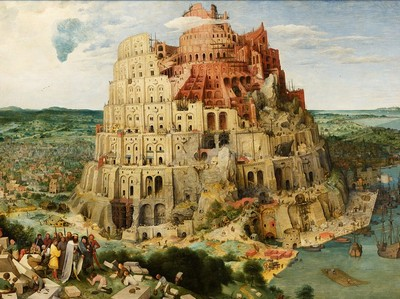
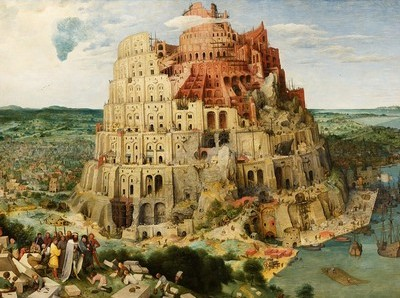
update Daniel 2 and Daniel 7 details

diff --git a/python/6000.py b/python/6000.py
@@ -11,6 +11,7 @@ from reportlab.graphics.shapes import *
 from reportlab.pdfbase import pdfmetrics
 from reportlab.pdfbase.ttfonts import TTFont
 from reportlab.pdfbase.pdfmetrics import stringWidth
+from svglib.svglib import svg2rlg
 import pandas as pd
 import datetime
 import os
@@ -547,9 +548,16 @@ def create_periods():
         counter_periods += 1
 
 def include_pictures():
-    c.drawImage("../images/daniel2.jpg", x_position(-4000), y_position(44), width=61*mm, height=96*mm)
+    c.drawImage("../images/daniel2.jpg", x_position(-4100), y_position(42), width=73*mm, height=115*mm)
     c.drawImage("../images/babel.jpg", x_position(-2270), y_position(9.6), width=30*mm, height=22*mm)
     c.drawImage("../images/terach.jpg", x_position(-3400), y_position(44), width=160*mm, height=104*mm)
+    # drawing = svg2rlg("../images/daniel2.svg")
+    # desired_height = 96*mm
+    # factor = desired_height / drawing.height
+    # sx = sy = factor
+    # drawing.width, drawing.height = drawing.minWidth() * sx, drawing.height * sy
+    # drawing.scale(sx, sy)
+    # renderPDF.draw(drawing, c, x_position(-4100), y_position(40))    
     
 
 def create_timestamp():
@@ -584,7 +592,7 @@ def create_timeline(lang):
     create_books()
     create_periods()
     create_caesars()
-    # include_pictures()
+    include_pictures()
     create_timestamp()
     render_to_file()
 

diff --git a/python/test/image_svg.py b/python/test/image_svg.py
@@ -8,9 +8,12 @@ from svglib.svglib import svg2rlg
 c = canvas.Canvas("image_svg.pdf")
 c.drawString(100, 750, "Hello world!")
 drawing = svg2rlg("daniel2.svg")
-factor = 0.5
+desired_height = 500
+factor = desired_height / drawing.height
+print(f"The width of your drawing is: {drawing.width} and the height is {drawing.height}.")
 sx = sy = factor
 drawing.width, drawing.height = drawing.minWidth() * sx, drawing.height * sy
 drawing.scale(sx, sy)
+print(f"The width of your drawing is: {drawing.width} and the height is {drawing.height}.")
 renderPDF.draw(drawing, c, 0, 40)
 c.save()
